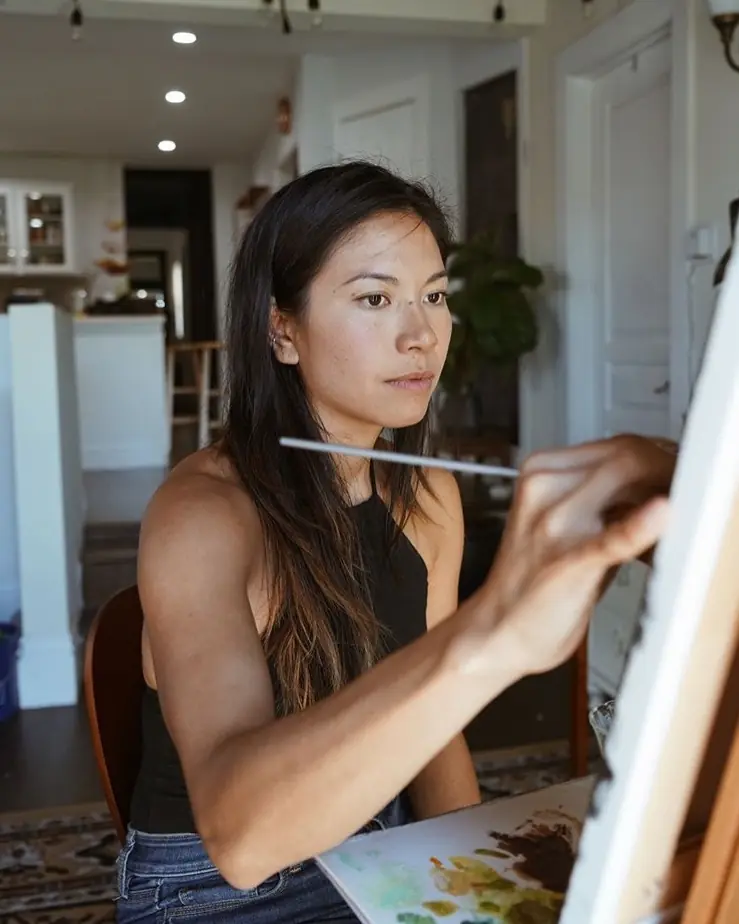
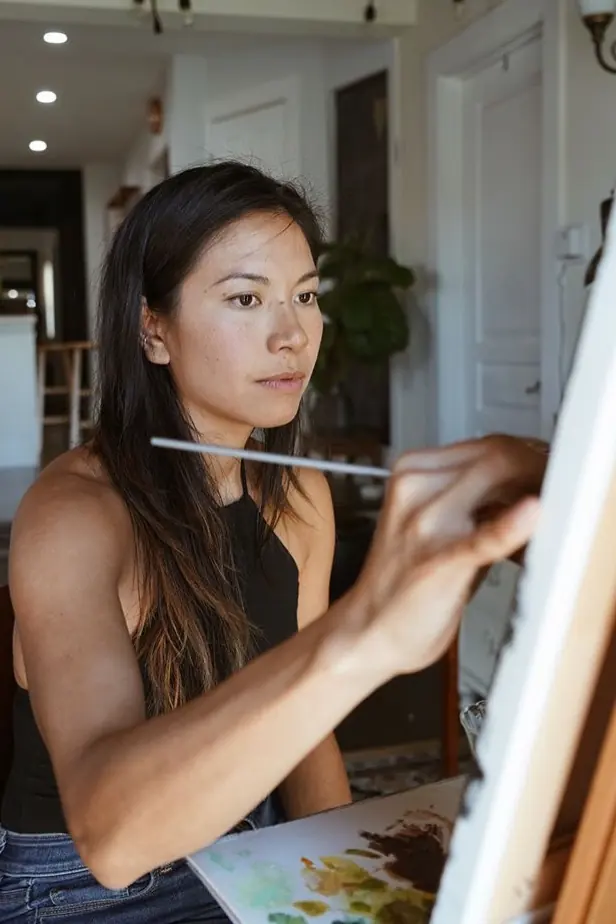
Add files via upload

diff --git a/index.html b/index.html
@@ -7,8 +7,8 @@
 <meta name="description" content="Ten-minute watercolor & ink flash portraits and live oil wedding paintings by Jasmin Iskandar de Caro.">
 <meta property="og:title" content="Jasmin Iskandar de Caro — Soulful Live Event Painting">
 <meta property="og:description" content="Portraits for your most memorable events.">
-<meta property="og:image" content="/portrait-pair.webp">
-<link rel="icon" href="/sig-ink.png">
+<meta property="og:image" content="portrait-hero.webp">
+<link rel="icon" href="sig-ink.png">
 <link rel="preconnect" href="https://fonts.googleapis.com">
 <link rel="preconnect" href="https://fonts.gstatic.com" crossorigin>
 <link rel="stylesheet" href="https://fonts.googleapis.com/css2?family=Fraunces:ital,opsz,wght,SOFT,WONK@0,9..144,300..500,0..100,0..1;1,9..144,300..500,0..100,0..1&family=EB+Garamond:ital,wght@0,400;0,500;1,400&display=swap">
@@ -43,17 +43,16 @@ p,h1,h2,figure{margin:0}
 
 /* hero */
 .hero{padding-top:56px;padding-bottom:144px;align-items:end;row-gap:64px}
-.hero-l{grid-column:1/span 6;grid-row:1}
+.hero-l{grid-column:2/span 10;grid-row:1}
 .hero-l h1{font-size:clamp(44px,4.6vw,68px);line-height:1.02}
 .hero-l h1 em{font-style:italic}
 .hero-l .sc{display:block;margin-bottom:28px}
 .hero-sub{margin-top:24px;font-size:21px;font-style:italic;line-height:1.45}
-.hero-who{grid-column:1/span 6;grid-row:2}
-.hero-img{grid-column:7/-1;grid-row:2}
-.hero-who .plate,.hero-img .plate{aspect-ratio:4/5}
-.hero-r{grid-column:8/span 5;grid-row:1;padding-bottom:6px}
-.hero-r p{font-size:19px}
-.hero-r .go{margin-top:28px;font-size:19px}
+.hero-who{grid-column:2/span 5;grid-row:2}
+.hero-img{grid-column:7/span 5;grid-row:2}
+.hero-who .plate,.hero-img .plate{aspect-ratio:2/3}
+.hero-note{grid-column:2/span 5;grid-row:3;align-self:baseline}
+.hero-go{grid-column:7/span 5;grid-row:3;align-self:baseline;margin-top:0}
 
 /* section head */
 .sec{border-top:1px solid var(--line);padding-top:72px}
@@ -98,6 +97,11 @@ textarea.f{resize:none;min-height:96px}
 .send{grid-column:1/-1;justify-self:center;margin-top:8px;background:var(--ink);color:var(--paper);border:0;min-height:52px;padding:0 44px;font:inherit;font-size:18px;font-style:italic;letter-spacing:.02em;cursor:pointer;transition:background .3s}
 .send:hover{background:var(--terra)}
 .direct{margin-top:40px;font-size:17px;color:var(--mute)}
+.form-msg{grid-column:1/-1;text-align:center;margin:0;font-size:17px;font-style:italic;color:var(--mute);min-height:1em}
+.send[disabled]{opacity:.6;cursor:default}
+.thanks{margin-top:56px;padding:48px 24px;border-top:1px solid var(--line);border-bottom:1px solid var(--line)}
+.thanks-h{font-size:36px;line-height:1.1;margin-bottom:12px}
+[hidden]{display:none!important}
 
 footer{border-top:1px solid var(--line)}
 footer .g{padding-top:40px;padding-bottom:48px;align-items:center}
@@ -116,9 +120,10 @@ footer .r{grid-column:9/-1;justify-self:end;font-size:15px;color:var(--mute);dis
   .hero{padding-top:16px;padding-bottom:96px}
   .hero{row-gap:0;align-items:start}
   .hero-l{grid-column:1/-1;grid-row:1}
-  .hero-r{grid-column:1/-1;grid-row:2;padding-bottom:0;margin-top:20px}
-  .hero-who{grid-column:1/span 6;grid-row:3;margin-top:40px}
-  .hero-img{grid-column:7/-1;grid-row:3;margin-top:40px}
+  .hero-who{grid-column:1/span 6;grid-row:2;margin-top:40px}
+  .hero-img{grid-column:7/-1;grid-row:2;margin-top:40px}
+  .hero-note{grid-column:1/-1;grid-row:3;margin-top:40px}
+  .hero-go{grid-column:1/-1;grid-row:4;margin-top:16px}
   .hero-who .cap,.hero-img .cap{font-size:13px}
   .hero-l .sc{margin-bottom:16px}
   .sec{padding-top:56px}
@@ -150,7 +155,7 @@ footer .r{grid-column:9/-1;justify-self:end;font-size:15px;color:var(--mute);dis
     <a class="nav" href="#oil">Live Oil Painting</a>
   </nav>
   <a class="c" href="#top" aria-label="Jasmin Iskandar de Caro, home">
-    <img src="/sig-ink.png" alt="" width="184" height="320">
+    <img src="sig-ink.png" alt="" width="184" height="320">
     <span class="sc">Jasmin Iskandar de Caro</span>
   </a>
   <a class="nav r" href="#inquire">Inquire</a>
@@ -164,17 +169,15 @@ footer .r{grid-column:9/-1;justify-self:end;font-size:15px;color:var(--mute);dis
       <p class="hero-sub">10-minute Flash Portraits &amp; live, large-scale oil painting</p>
     </div>
     <figure class="hero-who">
-      <div class="plate"><img src="/jasmin-painting.webp" alt="Jasmin Iskandar de Caro painting at an easel" width="739" height="924"></div>
+      <div class="plate"><img src="jasmin-painting.webp" alt="Jasmin Iskandar de Caro painting at an easel" width="616" height="924"></div>
       <figcaption class="cap">Jasmin at the easel</figcaption>
     </figure>
     <figure class="hero-img">
-      <div class="plate"><img src="/portrait-pair.webp" alt="Watercolor and ink portraits of a woman and a curly-haired man" width="690" height="1000"></div>
+      <div class="plate"><img src="portrait-hero.webp" alt="Watercolor and ink portraits of a blonde woman and a woman with a dark bob" width="720" height="1080"></div>
       <figcaption class="cap">Flash portraits · watercolor &amp; ink · ten minutes each</figcaption>
     </figure>
-    <div class="hero-r">
-      <p>Portraits for your most memorable events: weddings, birthdays and graduations.</p>
-      <p class="go"><a class="ul" href="#inquire">Inquire about a date</a></p>
-    </div>
+    <p class="hero-note">Portraits for your most memorable events: weddings, birthdays and graduations.</p>
+    <p class="hero-go"><a class="ul" href="#inquire">Inquire about a date</a></p>
   </section>
 
   <section id="flash" class="sec">
@@ -184,17 +187,17 @@ footer .r{grid-column:9/-1;justify-self:end;font-size:15px;color:var(--mute);dis
       <p>Ten-minute watercolor &amp; ink portraits, painted from photos taken on the spot or earlier in the event.</p>
     </div>
     <div class="g plates">
-      <figure><div class="plate"><img src="/portrait-duo.webp" alt="Two watercolor and ink portraits of women" width="685" height="1000"></div><figcaption class="cap">Plate i</figcaption></figure>
-      <figure><div class="plate"><img src="/portrait-four.webp" alt="Sketchbook page of four watercolor and ink portraits" width="725" height="1000"></div><figcaption class="cap">Plate ii</figcaption></figure>
-      <figure><div class="plate"><img src="/portrait-trio.webp" alt="Sketchbook page with three watercolor portraits" width="704" height="1000"></div><figcaption class="cap">Plate iii</figcaption></figure>
-      <figure><div class="plate"><img src="/flash-hero.webp" alt="Watercolor and ink portrait of a woman with her hair in a bun" width="760" height="951"></div><figcaption class="cap">Plate iv</figcaption></figure>
+      <figure><div class="plate"><img src="portrait-duo.webp" alt="Two watercolor and ink portraits of women" width="685" height="1000"></div><figcaption class="cap">Plate i</figcaption></figure>
+      <figure><div class="plate"><img src="portrait-four.webp" alt="Sketchbook page of four watercolor and ink portraits" width="725" height="1000"></div><figcaption class="cap">Plate ii</figcaption></figure>
+      <figure><div class="plate"><img src="portrait-trio.webp" alt="Sketchbook page with three watercolor portraits" width="704" height="1000"></div><figcaption class="cap">Plate iii</figcaption></figure>
+      <figure><div class="plate"><img src="flash-hero.webp" alt="Watercolor and ink portrait of a woman with her hair in a bun" width="760" height="951"></div><figcaption class="cap">Plate iv</figcaption></figure>
     </div>
   </section>
 
   <section id="oil" class="oil">
     <div class="g">
       <figure class="oil-img">
-        <div class="plate"><img src="/oil-wedding.webp" alt="Oil painting of a couple: a woman in a pale blue gown seated, a man in a cream shirt standing with his hand on her shoulder" width="743" height="1000"></div>
+        <div class="plate"><img src="oil-wedding.webp" alt="Oil painting of a couple: a woman in a pale blue gown seated, a man in a cream shirt standing with his hand on her shoulder" width="743" height="1000"></div>
         <figcaption class="cap">Oil on canvas</figcaption>
       </figure>
       <div class="oil-txt">
@@ -211,15 +214,22 @@ footer .r{grid-column:9/-1;justify-self:end;font-size:15px;color:var(--mute);dis
       <span class="num serif">III.</span>
       <h2 class="serif">Inquire</h2>
       <p class="lead">Share your date and a little about the day. Jasmin will reply with availability.</p>
-      <form action="mailto:[EMAIL]" method="post" enctype="text/plain">
+      <form id="inquiry" action="https://formspree.io/f/xpppygzw" method="POST">
+        <input type="hidden" name="_subject" value="New inquiry from the website">
+        <input type="text" name="_gotcha" tabindex="-1" autocomplete="off" aria-hidden="true" style="position:absolute;left:-9999px;width:1px;height:1px;opacity:0">
         <label>Name<input class="f" type="text" name="name" required></label>
         <label>Email<input class="f" type="email" name="email" required></label>
         <label>Occasion<input class="f" type="text" name="occasion" placeholder="Wedding, birthday…"></label>
         <label>Date<input class="f" type="text" name="date" placeholder="Month, day, year"></label>
         <label class="full">Notes<textarea class="f" name="message" rows="3" placeholder="Venue, guest count, anything else"></textarea></label>
         <button class="send" type="submit">Send inquiry</button>
+        <p class="form-msg" id="form-msg" role="status" aria-live="polite"></p>
       </form>
-      <p class="direct">Or write directly: <a class="ul" href="mailto:[EMAIL]">[EMAIL]</a></p>
+      <div class="thanks" id="thanks" hidden>
+        <p class="serif thanks-h">Thank you.</p>
+        <p>Your note is on its way. Jasmin will be in touch with availability soon.</p>
+      </div>
+      <p class="direct">Or <a class="ul" href="mailto:jasmin@bosqueoscuro.com">email Jasmin directly</a></p>
     </div>
   </section>
 </main>
@@ -227,9 +237,28 @@ footer .r{grid-column:9/-1;justify-self:end;font-size:15px;color:var(--mute);dis
 <footer>
   <div class="g">
     <p class="l">© Jasmin Iskandar de Caro</p>
-    <p class="c"><img src="/sig-ink.png" alt="" width="184" height="320"></p>
-    <p class="r"><a class="ul" href="[INSTAGRAM URL]">Instagram</a><span>Watercolor · Ink · Oil</span></p>
+    <p class="c"><img src="sig-ink.png" alt="" width="184" height="320"></p>
+    <p class="r"><a class="ul" href="https://instagram.com/bosque.oscuro" target="_blank" rel="noopener">Instagram</a><span>Watercolor · Ink · Oil</span></p>
   </div>
 </footer>
+<script>
+(function(){
+  var form=document.getElementById('inquiry'); if(!form||!window.fetch) return;
+  var msg=document.getElementById('form-msg'), thanks=document.getElementById('thanks'), btn=form.querySelector('.send');
+  form.addEventListener('submit',function(e){
+    e.preventDefault();
+    btn.disabled=true; btn.textContent='Sending…'; msg.textContent='';
+    fetch(form.action,{method:'POST',body:new FormData(form),headers:{'Accept':'application/json'}})
+      .then(function(r){
+        if(r.ok){ form.hidden=true; thanks.hidden=false; thanks.scrollIntoView({behavior:'smooth',block:'center'}); return; }
+        return r.json().then(function(d){ throw new Error(d && d.errors ? d.errors.map(function(x){return x.message;}).join(' ') : 'Send failed'); });
+      })
+      .catch(function(){
+        msg.textContent='That didn\u2019t go through. Please try again, or use the email link below.';
+        btn.disabled=false; btn.textContent='Send inquiry';
+      });
+  });
+})();
+</script>
 </body>
 </html>
